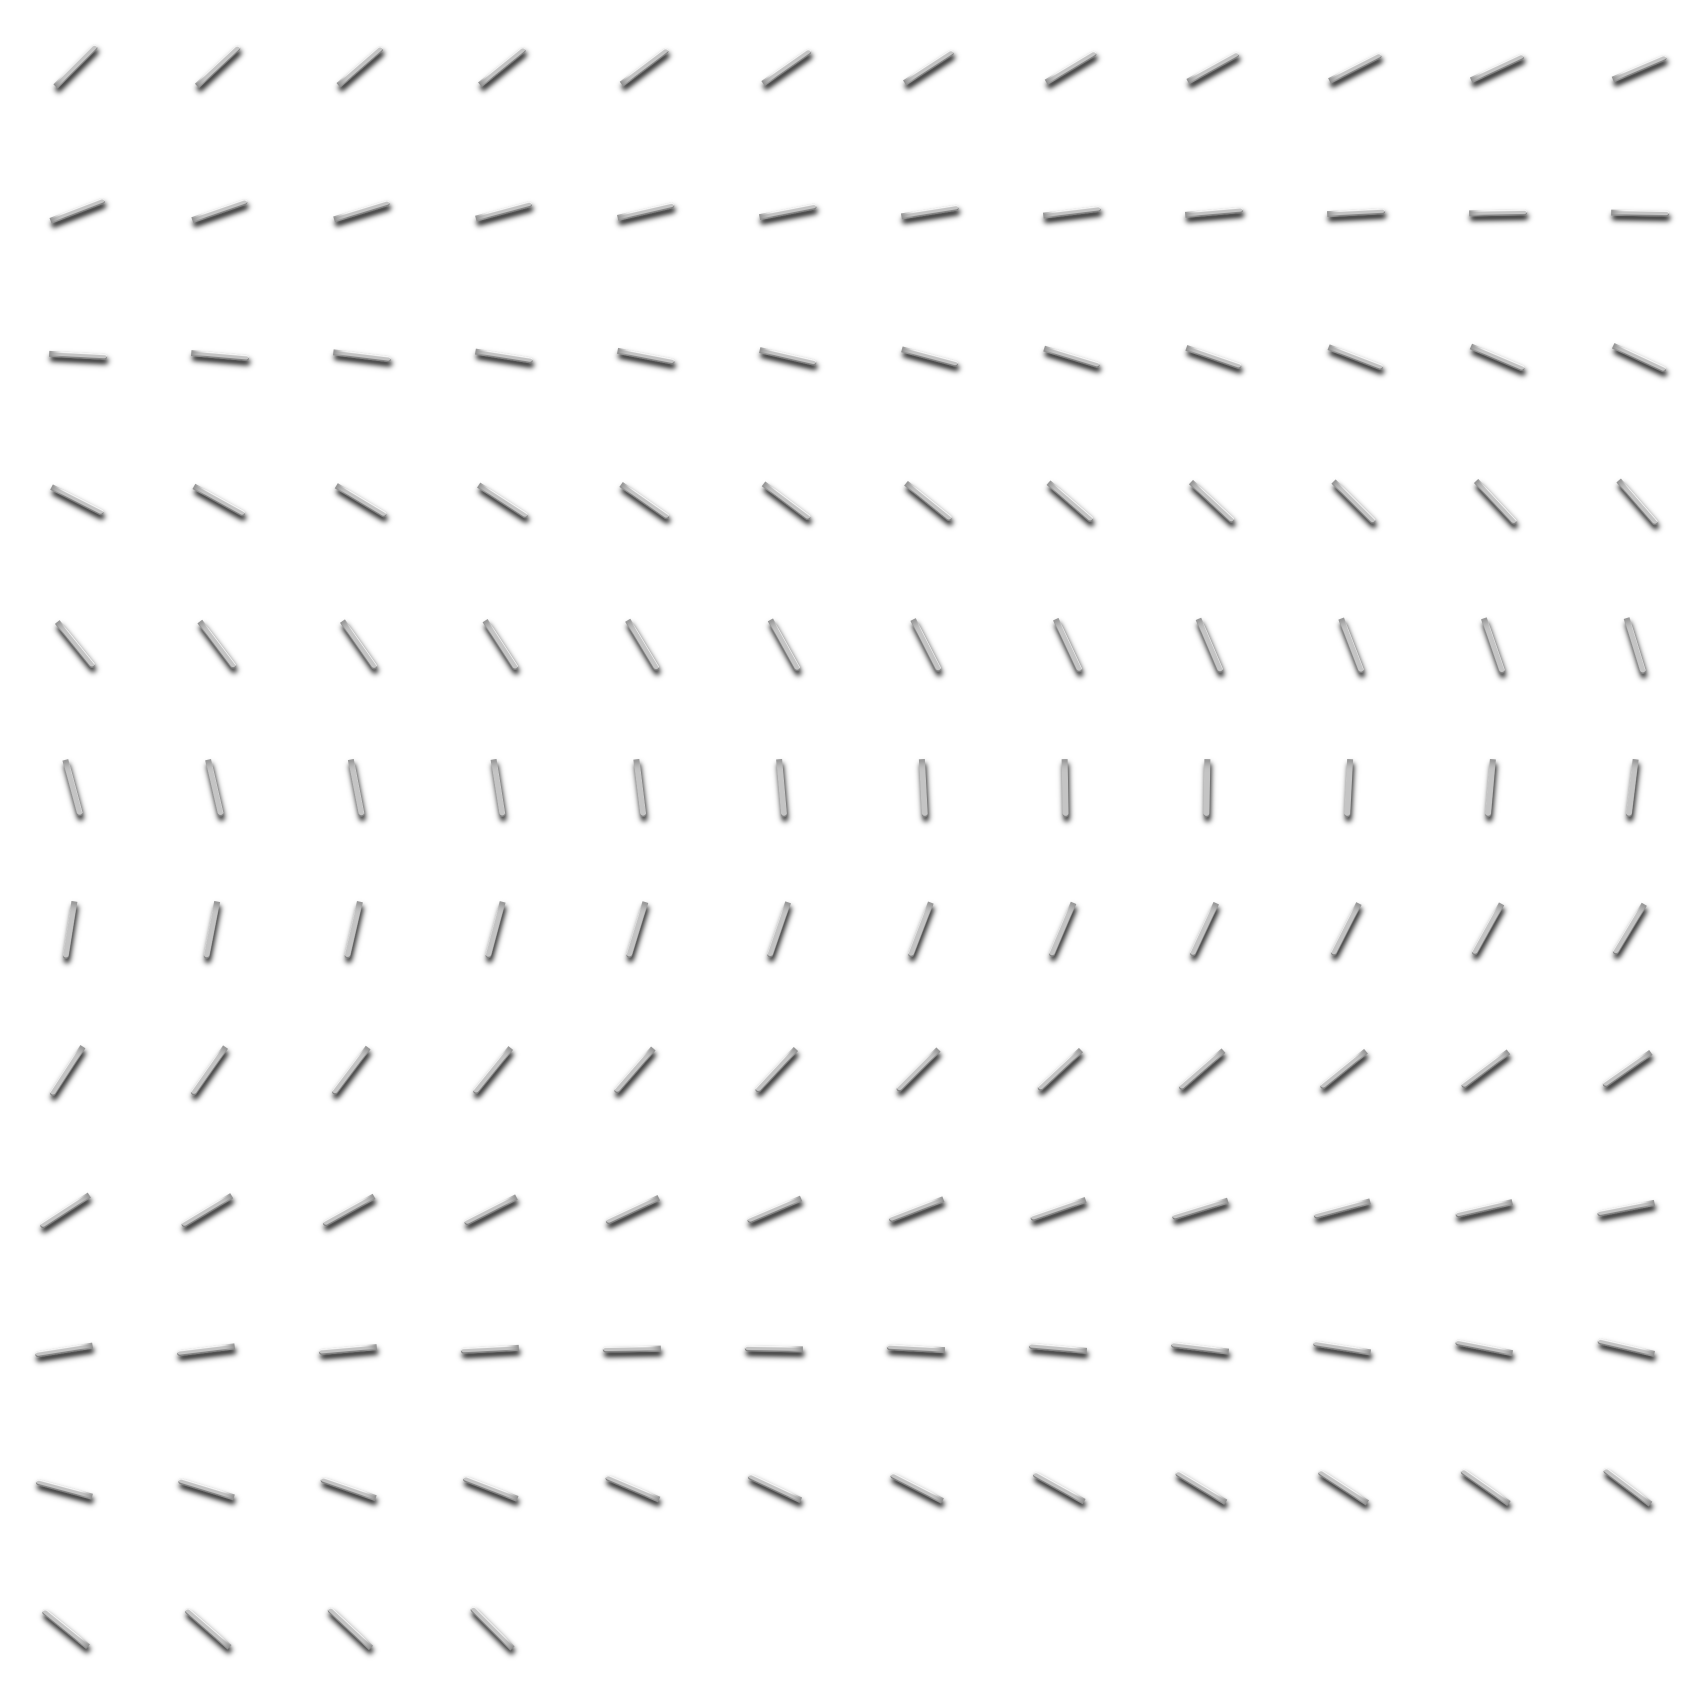
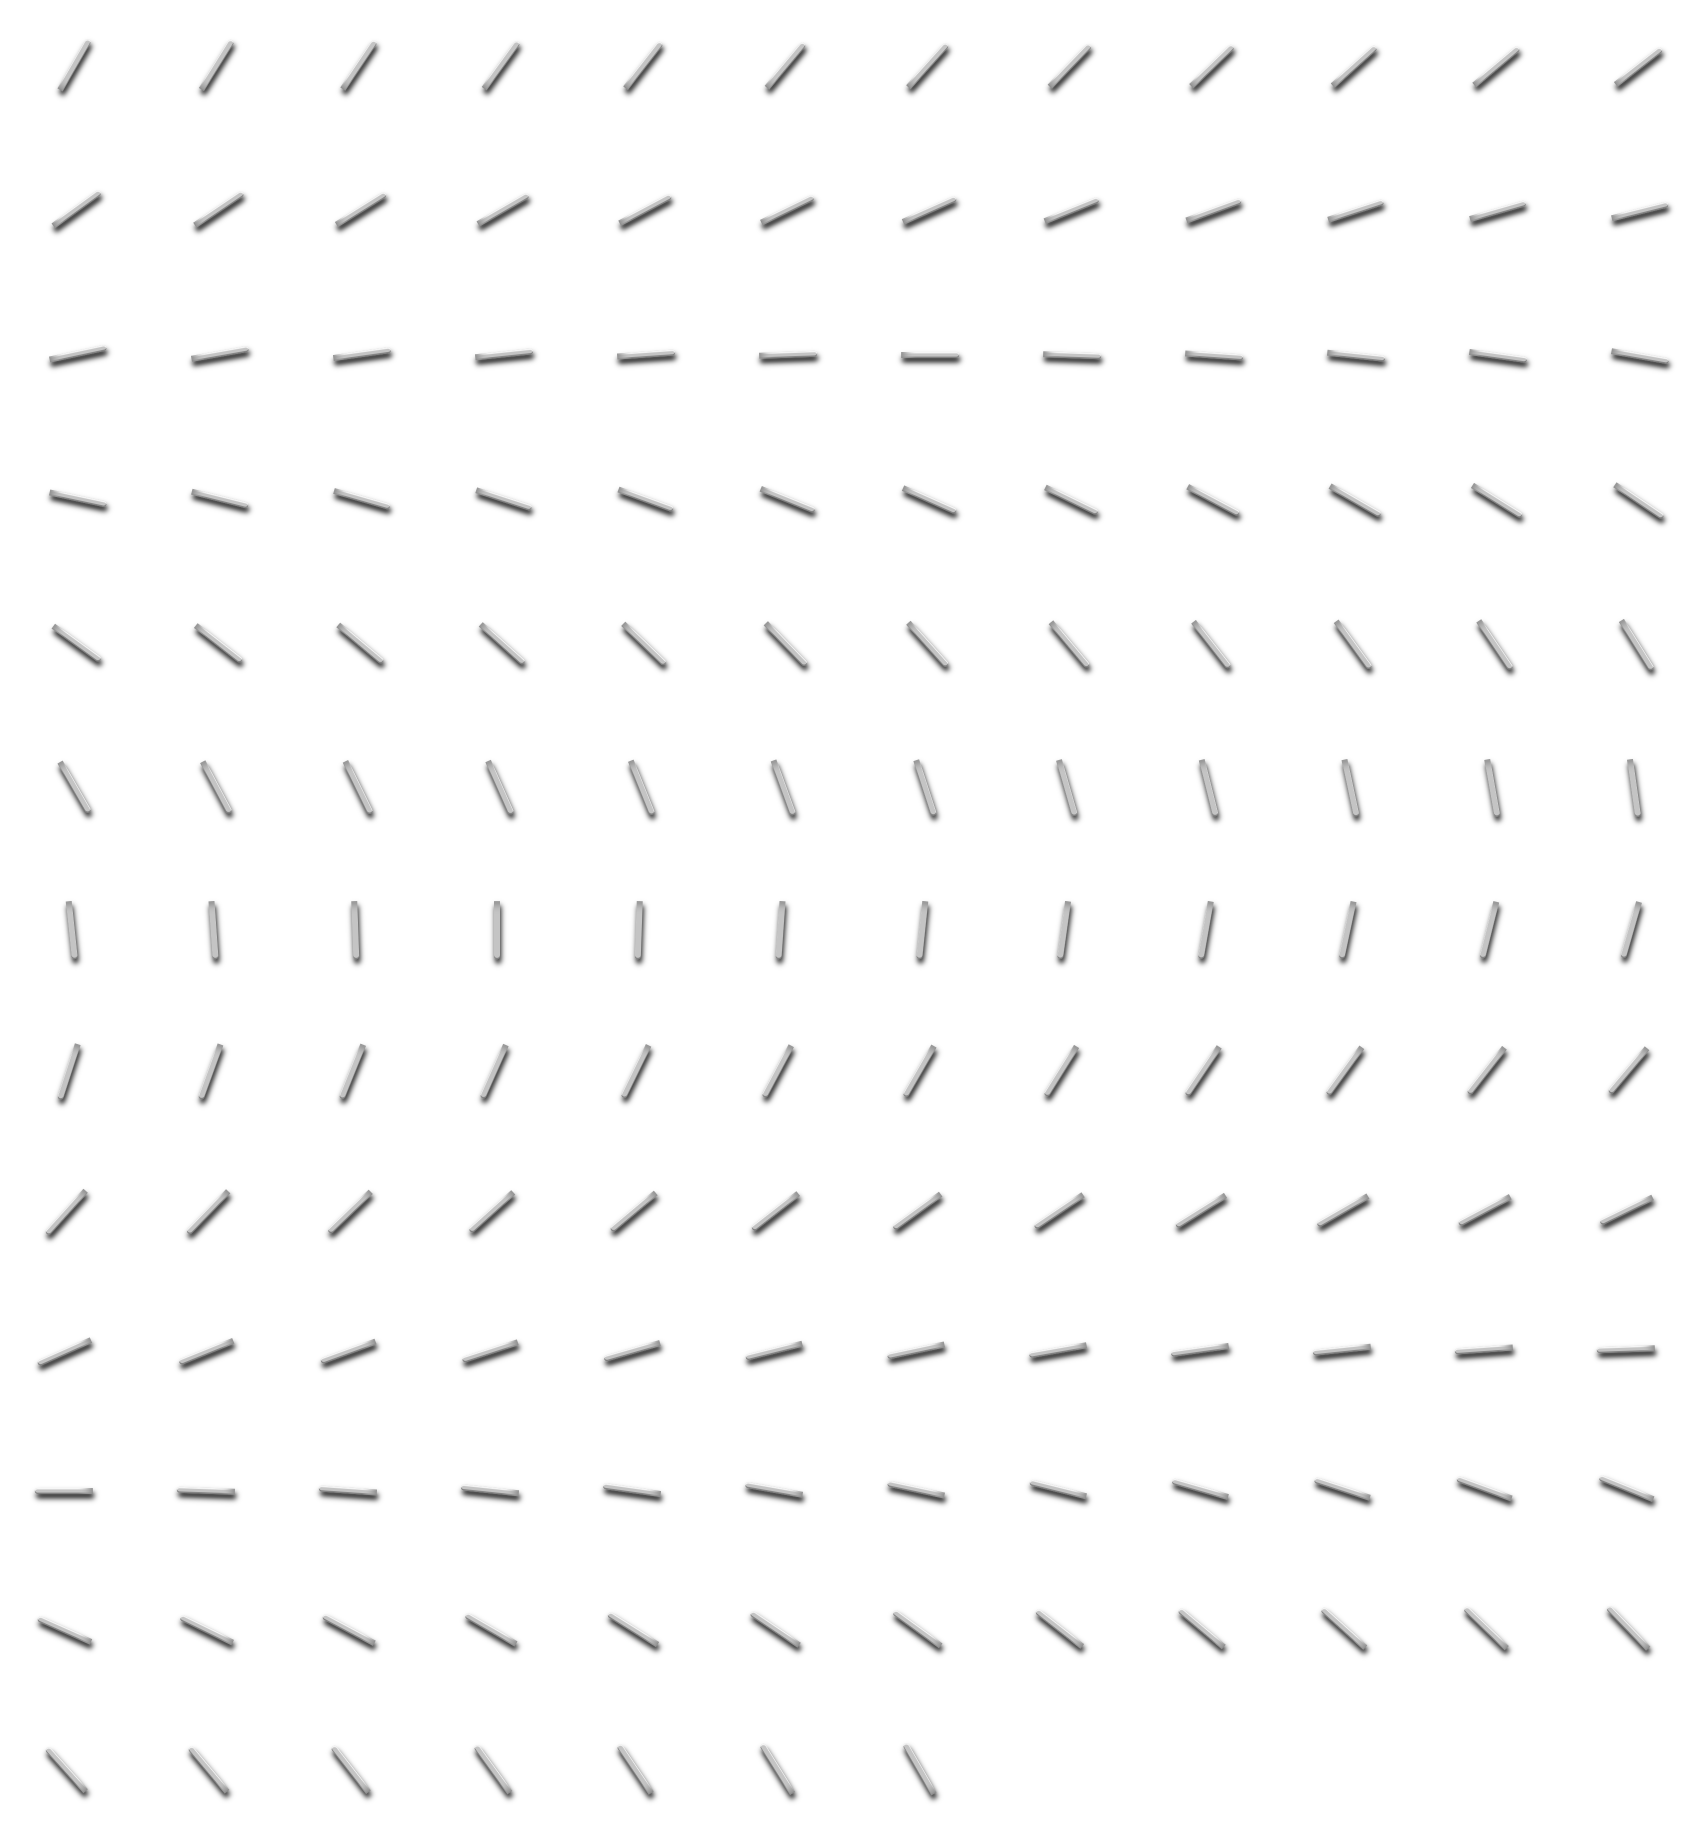
Fade: recorrido de 300 grados (20 % y 80 % a 180 grados entre si) [skip ci]
Claude-Session: https://claude.ai/code/session_01LmYTuHAKQSU8qhR6nNkVAi

diff --git a/Source/PluginEditor.cpp b/Source/PluginEditor.cpp
@@ -14,7 +14,7 @@ namespace
     constexpr int   kCrop = 24;                                   // el recorte de la ventana: se corta por la linea oscura del marco
     constexpr int   kFaderX = 1309, kTop = 129, kBottom = 742;       // pista del fader: de y=129 (+6 dB) a y=742 (-inf); a 43.5 del valor de abajo, igual que las perillas
     constexpr float kBtnCy = 883.75f, kBtnHit = 38.0f;               // centro vertical de los botones y radio (cuadrado) donde responden al clic
-    constexpr int   kNumFrames = 136, kAtlasCols = 12;               // un cuadro del puntero cada 2 grados
+    constexpr int   kAtlasCols = 12;                                  // un cuadro del puntero cada 2 grados (Depth: 136 cuadros, -135..135; Fade: 151, -150..150)
     const Colour kText (240, 240, 240);    // texto sobre el fondo oscuro
 
     // zona (en pixeles logicos) que ocupa el vumetro: se repinta solo eso cuando cambia
@@ -166,11 +166,11 @@ namespace
         bool onTickRing (Point<float> p) const
         {
             const float d = p.getDistanceFrom ({ cx, cy });
-            return d > r && d <= r + (isDepth ? 60.0f : 32.0f) && std::abs (ringDegrees (p)) <= 138.0f;
+            return d > r && d <= r + (isDepth ? 60.0f : 32.0f) && std::abs (ringDegrees (p)) <= halfSpan() + 3.0f;
         }
         void jumpTo (Point<float> p)
         {
-            const float n = snapTick ((ringDegrees (p) + 135.0f) / 270.0f);
+            const float n = snapTick ((ringDegrees (p) + halfSpan()) / (2.0f * halfSpan()));
             att.beginGesture();
             if (std::abs (n - norm()) > 1e-4f) setTick (n);
             att.endGesture();
@@ -182,11 +182,11 @@ namespace
             g.drawImageAt (body, bodyPos.x, bodyPos.y);
             // Los cuadros del puntero estan cada 2 grados; se toma el mas cercano y el resto (menos de 1 grado) se corrige girando el cuadro,
             // asi el puntero queda exactamente sobre su tick (p. ej. Fade 50 % = recto hacia arriba)
-            const float exactDeg = -135.0f + 270.0f * jlimit (0.0f, 1.0f, norm());
-            const int idx = jlimit (0, kNumFrames - 1, roundToInt ((exactDeg + 135.0f) / 2.0f));
+            const float exactDeg = -halfSpan() + 2.0f * halfSpan() * jlimit (0.0f, 1.0f, norm());
+            const int idx = jlimit (0, numFrames() - 1, roundToInt ((exactDeg + halfSpan()) / 2.0f));
             const int cell = half * 2;
             const float a = degreesToRadians (exactDeg);
-            const float resid = degreesToRadians (exactDeg - (-135.0f + 2.0f * (float) idx));
+            const float resid = degreesToRadians (exactDeg - (-halfSpan() + 2.0f * (float) idx));
             const AffineTransform place = AffineTransform::rotation (resid, (float) half, (float) half)
                                               .translated (cx + rMid * std::sin (a) - (float) half, cy - rMid * std::cos (a) - (float) half);
             g.saveState();
@@ -201,6 +201,9 @@ namespace
 
         // Depth salta de tick en tick, incluidos los intermedios (25 posiciones, -inf .. +6); Fade va de a 1 % (el clic en el anillo salta a uno de los 11 ticks, de a 10)
         // Fade: al arrastrar o usar la rueda se mueve de a 1 % (valores exactos); un clic en un tick o numero del anillo salta a ese tick (de a 10)
+        // recorrido de la perilla: Depth 270 grados (-135..135), Fade 300 (-150..150: el 20 % y el 80 % quedan a 180 grados entre si)
+        float halfSpan() const { return isDepth ? 135.0f : 150.0f; }
+        int numFrames() const { return isDepth ? 136 : 151; }
         float steps() const { return isDepth ? 24.0f : nSteps; }
         float snapTick (float n) const { return std::round (jlimit (0.0f, 1.0f, n) * steps()) / steps(); }
         float snapFine (float n) const { const float s = isDepth ? 24.0f : 100.0f; return std::round (jlimit (0.0f, 1.0f, n) * s) / s; }

diff --git a/UI_definitiva/generadores/bg_gen.py b/UI_definitiva/generadores/bg_gen.py
@@ -32,7 +32,7 @@ def txt(x,y,t,f,a='mm',c=G): d.text((x*S,y*S),t,font=f,fill=c,anchor=a)
 d.rectangle(sc(24,24,W-24,H-24),outline=(14,14,15),width=4*S); d.rectangle(sc(28,28,W-28,H-28),outline=(78,78,82),width=1*S)
 pt=24+M; db=pt+652; fb=742   # fb = fondo de la escala del fader (-inf)
 A13=[-135+22.5*i for i in range(13)]
-A11=[-135+27*i for i in range(11)]
+A11=[-150+30*i for i in range(11)]   # Fade: recorrido de 300 grados, el 20 % y el 80 % quedan justo a 180 grados entre si (a -90 y +90)
 def aa_ticks(cx,cy,r0,r1,angles,w=3.0,K=16):   # ticks radiales con borde suave exacto (se dibujan 16x mas grandes y se reducen), asi todos pesan igual
     pad=int(r1+8); sz=2*pad; m=Image.new('L',(sz*K,sz*K),0); md=ImageDraw.Draw(m)
     for a in angles:
@@ -41,7 +41,7 @@ def aa_ticks(cx,cy,r0,r1,angles,w=3.0,K=16):   # ticks radiales con borde suave 
         md.polygon([(x*K,y*K) for x,y in P],fill=255)
     m=m.resize((sz*S,sz*S),Image.BOX); ox,oy=int((cx-pad)*S),int((cy-pad)*S)
     img.paste(Image.new('RGB',m.size,G),(ox,oy),m)
-aa_ticks(922,243,114+9,114+9+8.5,A11)   # Fade: 11 ticks (0..100 %, de a 10, cada 27 grados), 8,5 de largo y 3 de ancho
+aa_ticks(922,243,114+9,114+9+8.5,A11)   # Fade: 11 ticks (0..100 %, de a 10, cada 30 grados), 8,5 de largo y 3 de ancho
 d.line(sc(divX,60,divX,H-60),fill=(12,12,13),width=4*S); d.line(sc(divX+3,60,divX+3,H-60),fill=(84,84,88),width=1*S)
 fx=1309
 box(1463,pt,1527,fb)

diff --git a/UI_definitiva/generadores/knobs_gen.py b/UI_definitiva/generadores/knobs_gen.py
@@ -98,11 +98,11 @@ def col_pol(dist):
     return w,196-56*w
 
 NF=136; COLS=12
-def atlas(name,H,mk):
-    cell=2*H; rows=(NF+COLS-1)//COLS
+def atlas(name,H,mk,a0=-135,nf=NF):   # un cuadro cada 2 grados desde a0 (Depth: -135..135, 136 cuadros; Fade: -150..150, 151 cuadros)
+    cell=2*H; rows=(nf+COLS-1)//COLS
     A=Image.new('RGBA',(cell*COLS,cell*rows),(0,0,0,0))
-    for i in range(NF):
-        A.paste(mk(-135+2*i),((i%COLS)*cell,(i//COLS)*cell))
+    for i in range(nf):
+        A.paste(mk(a0+2*i),((i%COLS)*cell,(i//COLS)*cell))
     A.save(name,optimize=True)
 
 if __name__=='__main__':
@@ -111,4 +111,4 @@ if __name__=='__main__':
     mode_img(-135).save('mode_half.png'); mode_img(135).save('mode_whole.png')
     HD=106; HP=71
     atlas('depth_ptr.png',HD,lambda a:ptr_cell(a,RD*S,0.475*RD*S,0.85*RD*S,0.85*RD*S,col_depth,HD))
-    atlas('pol_ptr.png',HP,lambda a:ptr_cell(a,RP*S,(0.40/0.775)*RP*S,1.1*RP*S,RP*S,col_pol,HP))
+    atlas('pol_ptr.png',HP,lambda a:ptr_cell(a,RP*S,(0.40/0.775)*RP*S,1.1*RP*S,RP*S,col_pol,HP),a0=-150,nf=151)   # Fade: recorrido de 300 grados

diff --git a/LEEME.md b/LEEME.md
@@ -11,7 +11,7 @@ Silencia el audio que entra, en full range, siguiendo los cycles de la señal qu
 | **SC Listen** | Solo se escucha el key (el sidechain input), en lugar del audio. Sirve para comprobar que el sidechain llega y a qué level. Sin nada conectado, queda en silencio. El Output no se aplica en este modo |
 | **Mode** | **Half** (por defecto): silencia un solo semiciclo de cada cycle. **Whole**: silencia un cycle completo, deja pasar el siguiente, y así alternando. Se cambia con **clic y arrastre** sobre la perilla (derecha o abajo = Whole, izquierda o arriba = Half; si empezás a arrastrar desde la mitad de arriba de la perilla, el movimiento horizontal va al revés; un clic solo no cambia nada), o con un clic sobre las palabras Half / Whole. En Whole, un golpe nuevo (el pico del sidechain sube de golpe, aunque no haya habido silencio) arranca siempre con el cycle silenciado |
 | *(Polarity fijo)* | La ventana de silencio queda siempre a 90° del cruce, así pasa señal un poco en cada polo (resultado simétrico). Ya no hay perilla |
-| **Fade** | De 0% (por defecto) a 100%, de a 1 % al arrastrar o usar la rueda (doble clic sobre la perilla: aparece una cajita para escribir el valor exacto; un clic en uno de los 11 ticks del anillo salta a ese tick: 0, 10, 20 ... 100 %). Con 0 % el corte no es instantáneo: tiene una rampa mínima de 0,5 ms para evitar el ruido digital de los bordes. Suaviza la entrada y la salida de la ventana de silencio con una curva suave centrada en cada borde: empieza un poco antes y termina un poco después. Se mide como porcentaje del semiciclo, así acompaña el tono de la nota |
+| **Fade** | De 0% (por defecto) a 100%, de a 1 % al arrastrar o usar la rueda (el recorrido del Fade es de 300°: el 20 % y el 80 % quedan a 180° entre sí; doble clic sobre la perilla: aparece una cajita para escribir el valor exacto; un clic en uno de los 11 ticks del anillo salta a ese tick: 0, 10, 20 ... 100 %). Con 0 % el corte no es instantáneo: tiene una rampa mínima de 0,5 ms para evitar el ruido digital de los bordes. Suaviza la entrada y la salida de la ventana de silencio con una curva suave centrada en cada borde: empieza un poco antes y termina un poco después. Se mide como porcentaje del semiciclo, así acompaña el tono de la nota |
 | **Output** | Volumen final, de **+6 dB a -inf**, fader logarítmico estilo consola: marcas equiespaciadas en +6, 0, -6, -12, -24, -48 y -inf (arriba mucha resolución, abajo se comprime). Por defecto 0 dB. Se mueve **arrastrando la perilla** del fader (un clic en la pista no hace nada); doble clic permite escribir el valor en dB |
 
 **Perillas y fader:** se mueven arrastrando o con la rueda / gesto de dos dedos. **Depth salta de tick en tick**, incluidos los ticks chicos del medio (25 posiciones entre -inf y +6); **Fade** va de a 1 %. **Option + clic** vuelve al valor por defecto (Depth 0 dB, Output 0 dB, Mode Half). **Doble clic** en el fader Output permite escribir el valor en dB con el teclado (Enter acepta, Esc cancela, un clic en otra parte del plugin cierra la cajita; acepta `-inf`; un texto que no es un valor se ignora). Bypass e SC Listen se cambian con un clic sobre el botón.
